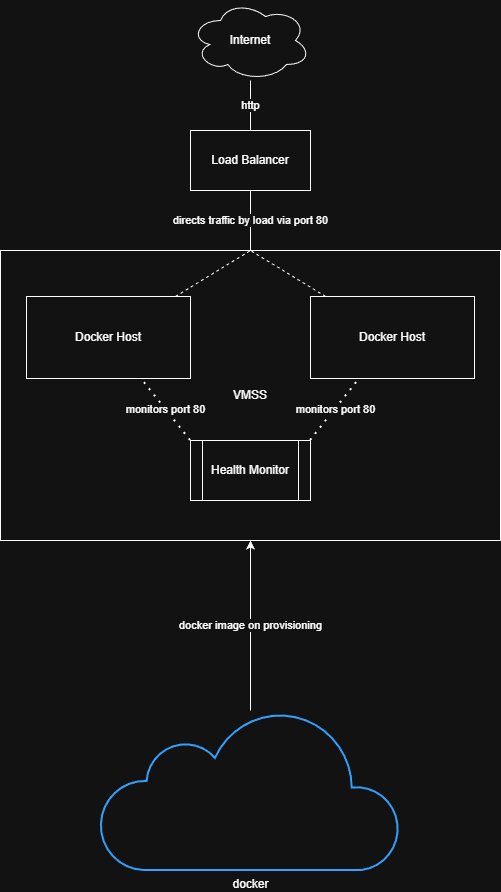
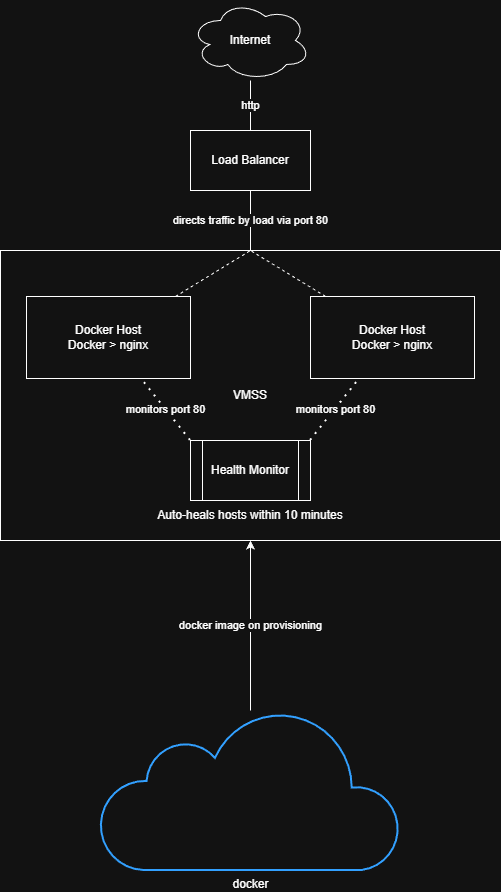
Updated Documentation

Changed region(s): [[0.3293, 0.5751, 0.6886, 0.6054], [0.6886, 0.3632, 0.8683, 0.3935], [0.1198, 0.3632, 0.2994, 0.3935]]

diff --git a/README.md b/README.md
@@ -1,2 +1,144 @@
-# terraform-161225
-Web Tier Project Demo
+# Auto-Healing Web Tier on Azure
+==============================
+
+A fully automated, self-healing web infrastructure deployed on Azure using Terraform. Features containerised NGINX, automatic instance replacement, and N+1 high availability.
+
+Features
+--------
+
+-   **Self-Healing**: Failed instances automatically replaced within 15-20 minutes
+-   **Self-Provisioning**: One command deploys everything
+-   **N+1 Capacity**: Minimum 2 instances behind load balancer; can survive single VM failure with zero downtime
+-   **Containerised**: NGINX runs in Docker containers for consistent deployments
+-   **Web Container Agnostic**: Can run any web container via passing variable on ```terraform apply```
+-   **Zone-Redundant**: VMs distributed across 3 availability zones
+
+Configuration Options
+---------------------
+
+### Variables
+
+| Variable | Default | Description |
+| --- | --- | --- |
+| `location` | `"New Zealand North"` | Azure region for deployment |
+| `resource_group_name` | `"rg-web-demo"` | Name of the resource group |
+| `vm_size` | `"Standard_B1s"` | Azure VM size |
+| `docker_image` | `"joshdevicarite"` | Docker image to run on hosts |
+| `instance_count` | `2` | Number of VMs (minimum 2 for N+1) for fixed capacity |
+
+### Customizing Deployment
+
+```
+# Different region, more instances and VM size
+terraform apply\
+  -var="location=West Europe"\
+  -var="vm_size=Standard_B2s"\
+  -var="instance_count=5"\
+  -var="docker_image=EXAMPLEUSERNAME/nginx:alpine"
+```
+
+Architecture Details
+--------------------
+
+!(/Architecture_Diagram.png)
+
+### Components
+
+-   **Resource Group**: Container for all resources
+-   **Virtual Network**: Isolated network (10.0.0.0/16)
+-   **Subnet**: Web tier subnet (10.0.1.0/24)
+-   **Network Security Group**: Firewall rules (allows HTTP on port 80)
+-   **Public IP**: Static IP for load balancer
+-   **Load Balancer**: Distributes traffic across VMs
+-   **Health Probe**: HTTP checks on port 80 every 15 seconds
+-   **Virtual Machine Scale Set**: Manages 2 identical VMs across a potential 3 zones for redundancy
+-   **Application Health Extension**: Monitors app health from inside VM
+-   **Autoscaler**: Enforces a fixed capacity of 2 instances
+
+### Auto-Healing Process
+
+1.  Health extension detects application failure
+2.  Grace period: 10 minutes (prevents false positives)
+3.  If still unhealthy, automatic repair deletes VM
+4.  VMSS detects instance count below desired (2)
+5.  VMSS creates replacement VM
+6.  New VM boots, runs cloud-init
+7.  Docker installed, image pulled, container started
+8.  Health checks pass, VM added to load balancer
+
+**Total recovery time:** 15-20 minutes with zero user-facing downtime.
+
+
+Prerequisites
+-------------
+
+### Required Tools
+
+-   [Terraform](https://www.terraform.io/downloads) v1.0 or higher
+-   [Azure CLI](https://docs.microsoft.com/en-us/cli/azure/install-azure-cli)
+
+### Azure Requirements
+
+-   Active Azure subscription
+-   Contributor access to create resources
+
+### Authentication
+
+```
+# Login to Azure
+az login
+
+# Verify subscription
+az account show
+```
+
+Quick Start
+-----------
+
+### 1\. Deploy Infrastructure
+
+```
+# Initialize Terraform (downloads providers)
+
+# Preview changes
+terraform plan
+
+# Deploy infrastructure
+terraform apply
+```
+
+Type `yes` when prompted to confirm.
+
+**Expected deployment time:** 5-8 minutes
+
+### 2\. Access Application
+
+```
+# Get the load balancer URL
+terraform output load_balancer_url
+
+# Test it
+curl $(terraform output -raw load_balancer_url)
+```
+
+
+Cost Estimate
+-------------
+
+**Monthly costs (approximate):**
+
+-   2× Standard_B1s VMs: ~$20
+-   Load Balancer (Standard): ~$20
+-   Public IP (Standard): ~$4
+-   **Total: ~$44/month**
+
+
+Assumptions and Compromises
+-------------
+
+This is a demonstration and as such a number of decisions make this completely unsuitable for production.
+-   SSH keys are stored in the Terraform state
+-   HTTPS is not implemented
+-   No additional security hardening has been implemented
+-   No form of access into the instances outside of invoking Azure run-command, as port 22 is locked down
+-   Not possible to deploy solution for less than AUD $20 on Azure, but it's what I know best and I've minimised costs as best I can.
